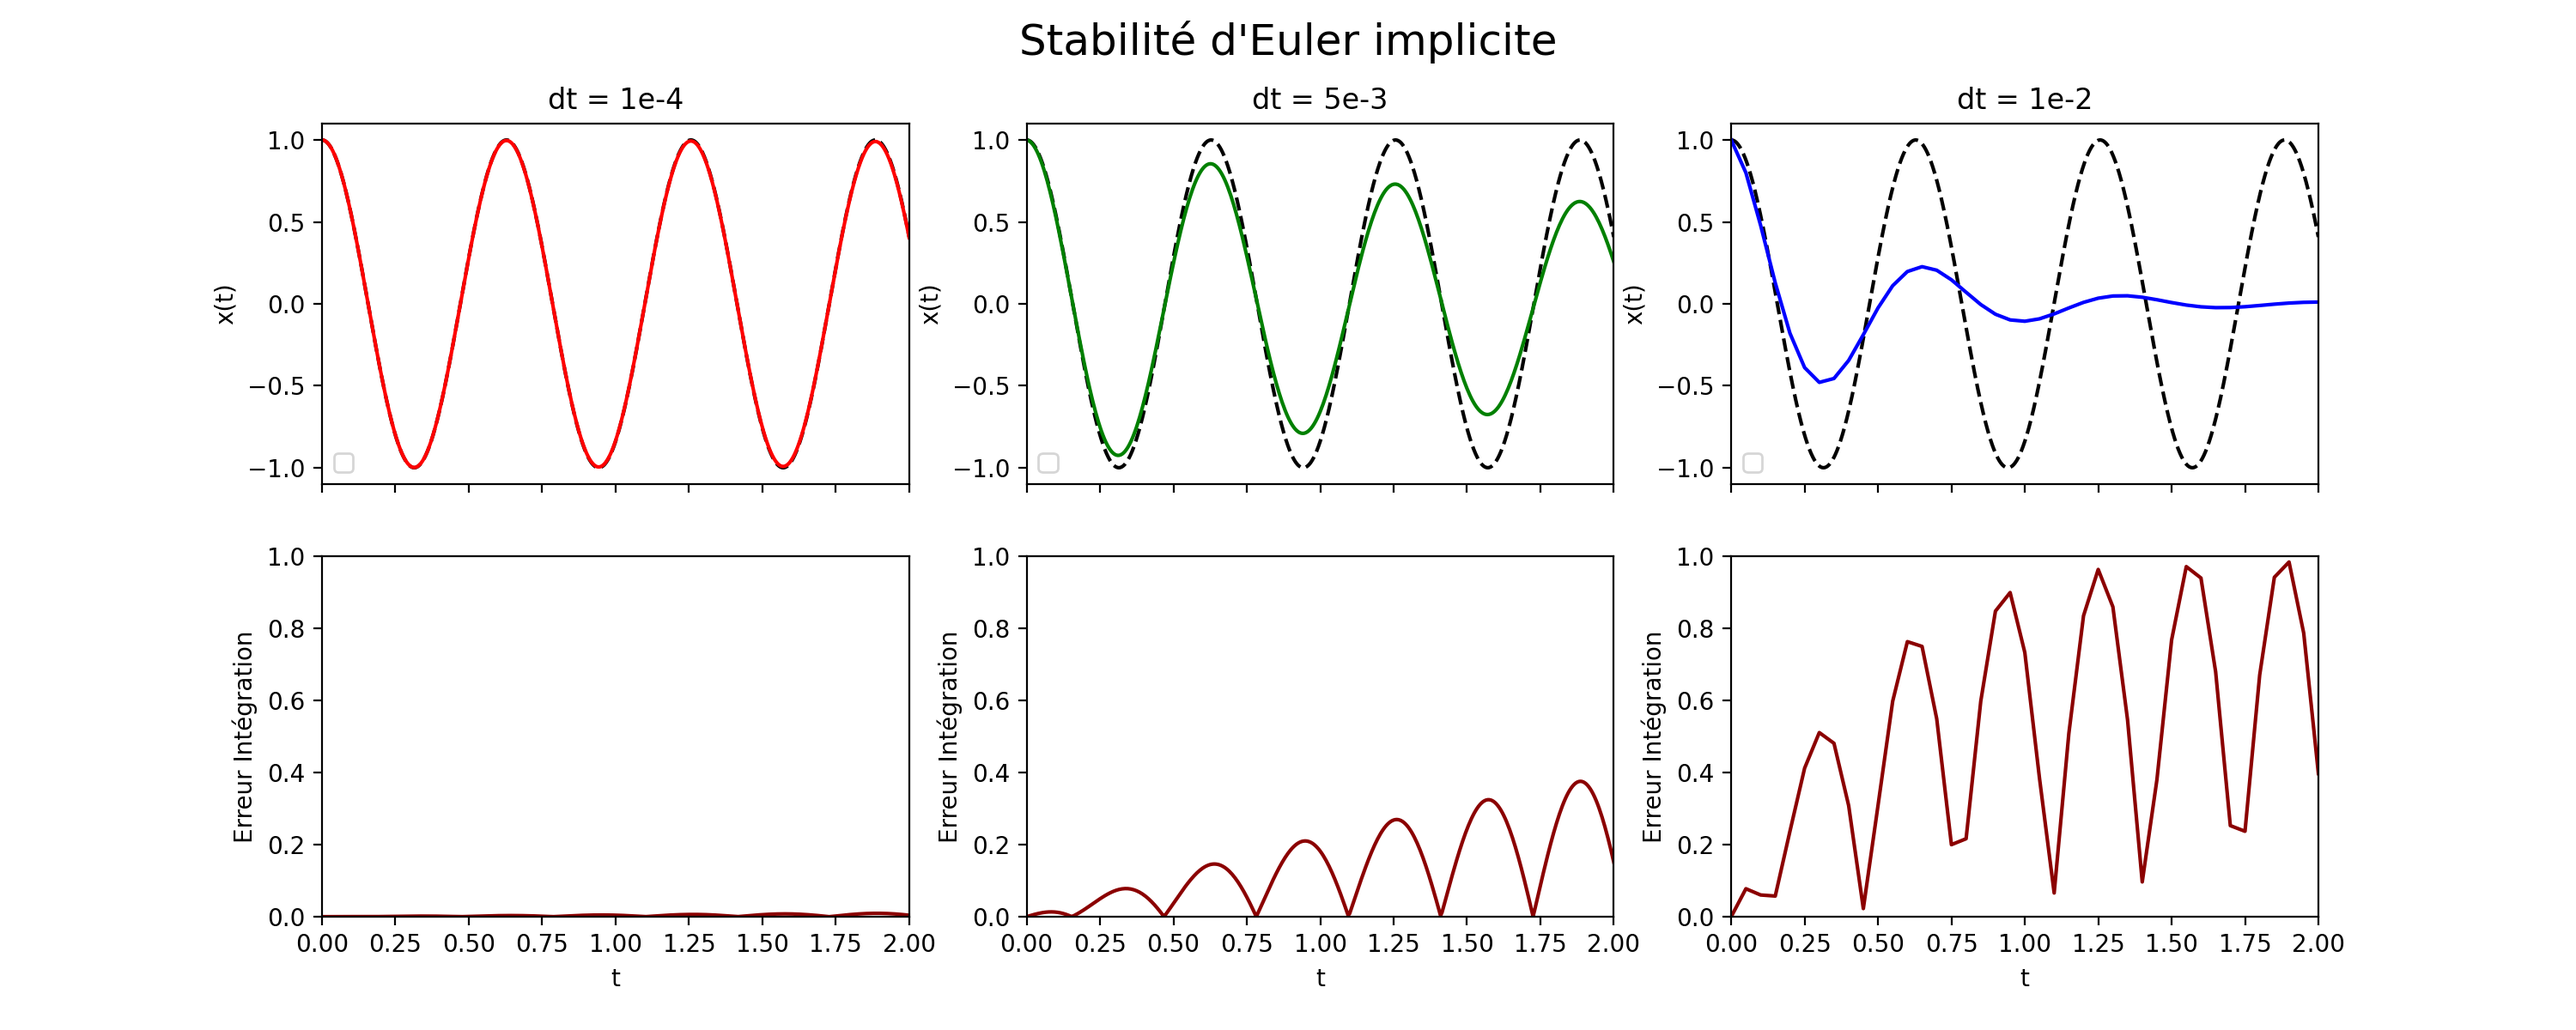
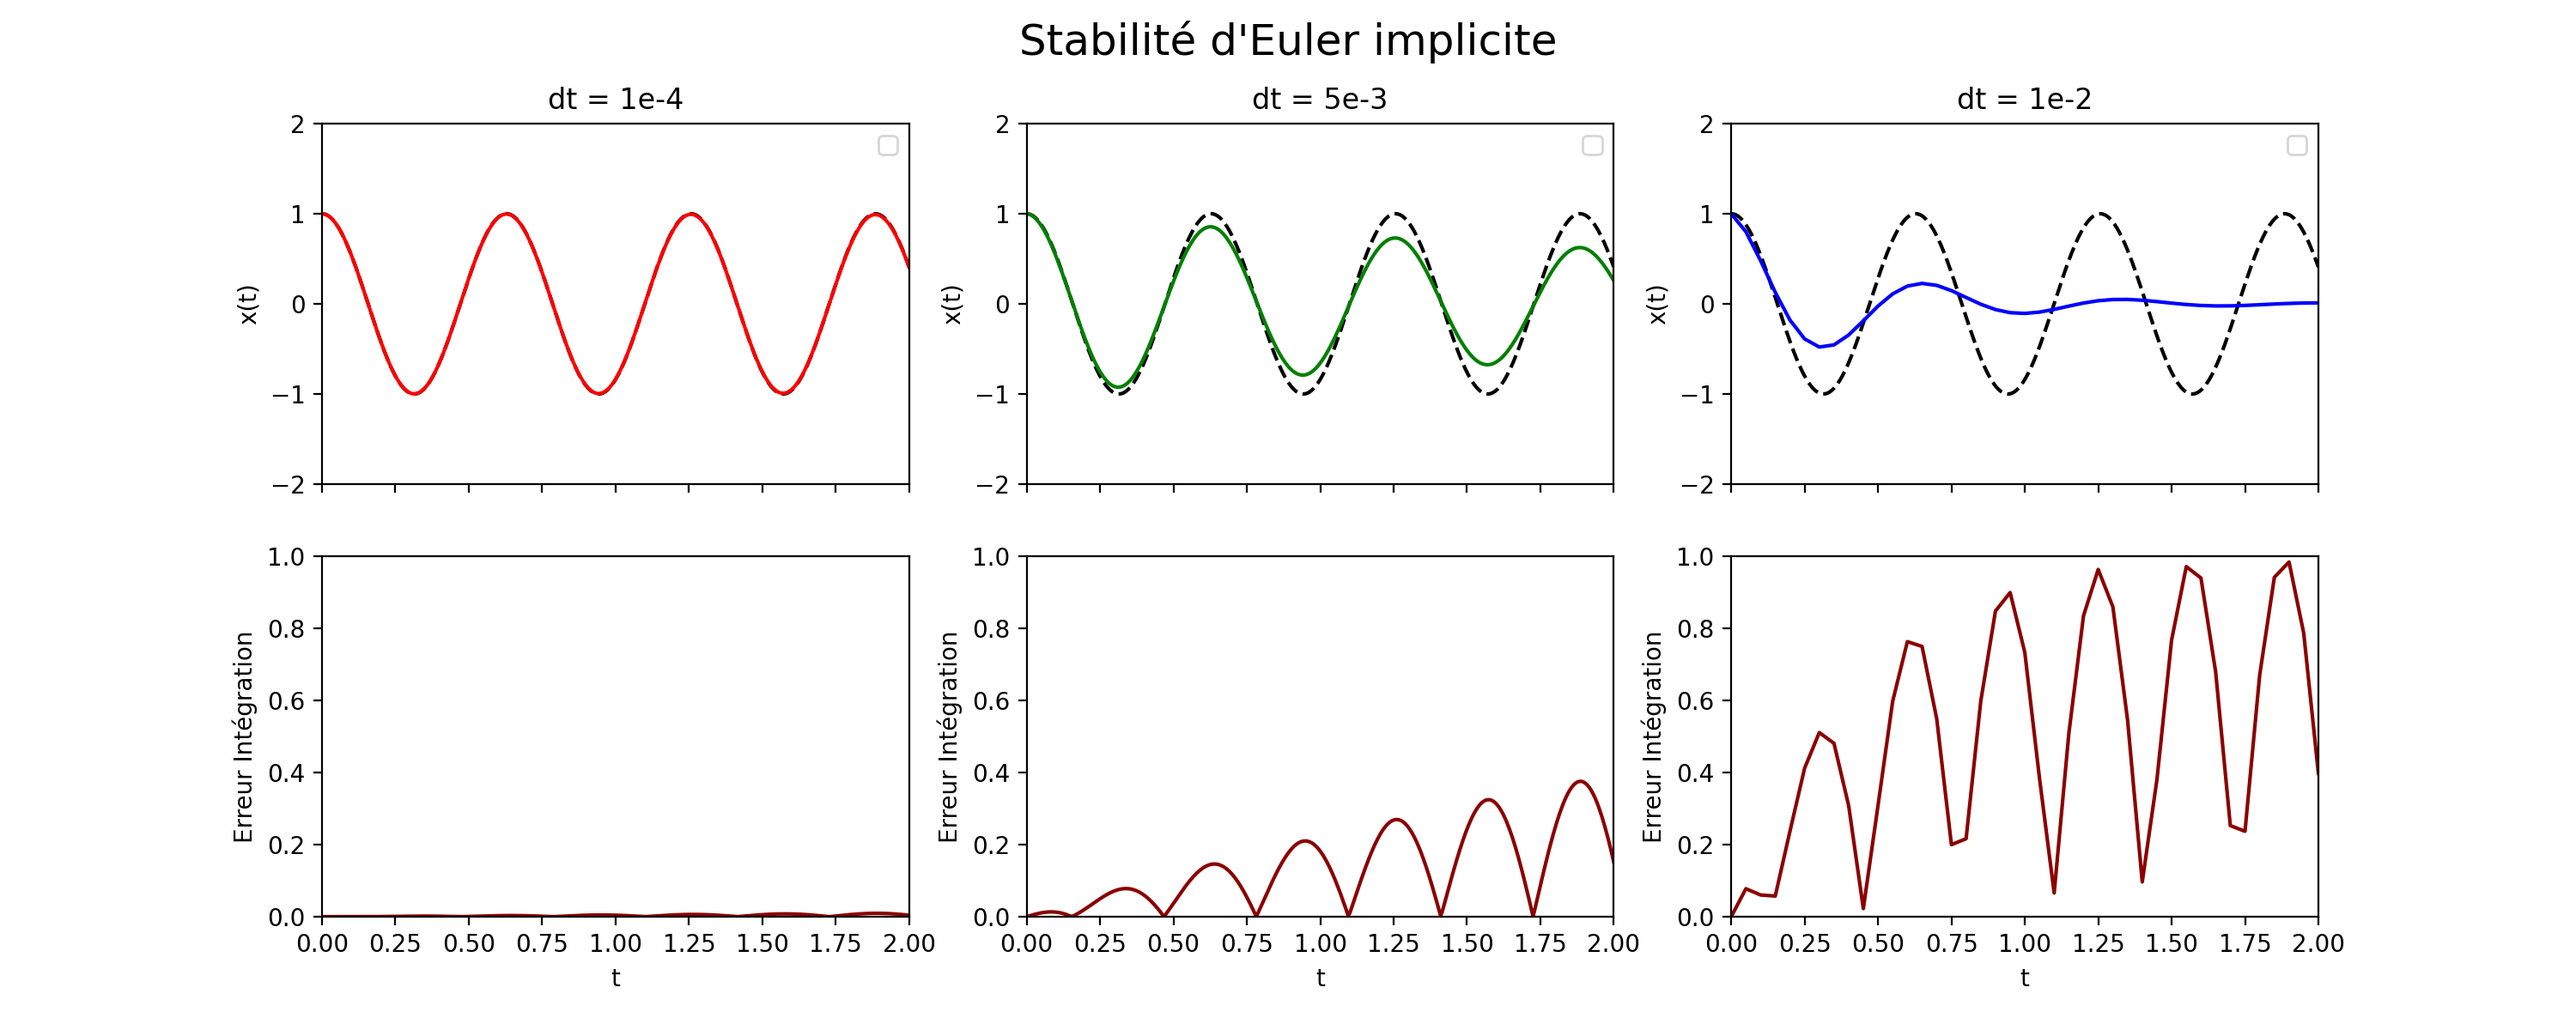
code python pour illu thèse

diff --git a/assets/scripts/thesis/07_Numerical_integration.py b/assets/scripts/thesis/07_Numerical_integration.py
@@ -1,0 +1,83 @@
+import numpy as np
+import matplotlib.pyplot as plt
+
+import numpy as np
+import matplotlib.pyplot as plt
+from scipy.integrate import quad
+from scipy.special import roots_legendre
+
+# Fonction à intégrer
+def f(x):
+    return np.sin(x**2)
+
+# Intervalle d'intégration
+a, b = 0, np.sqrt(np.pi)
+
+# Intégrale analytique
+I_exact, _ = quad(f, a, b)
+
+# Préparer figure
+fig, axes = plt.subplots(1, 3, figsize=(12, 4))
+axes = axes.flatten()
+
+# Paramètres
+N = 10  # nombre de points pour méthodes discrètes
+x_dense = np.linspace(a, b, 1000)
+y_dense = f(x_dense)
+
+# 1. Trapèze
+x_trap = np.linspace(a, b, N)
+y_trap = f(x_trap)
+I_trap = np.trapz(y_trap, x_trap)
+
+axes[0].plot(x_dense, y_dense, 'k', label='f(x)')
+axes[0].fill_between(x_trap, y_trap, alpha=0.3)
+axes[0].plot(x_trap, y_trap, 'o-', color='blue')
+axes[0].set_title("Trapèzes")
+axes[0].text(0.5, -0.4,
+             f"$\int f(x) dx$ ≈ {I_trap:.5f} | Erreur = {abs(I_trap - I_exact):.2e}",
+             ha='center', transform=axes[0].transAxes)
+
+# 2. Monte Carlo
+np.random.seed(1)
+x_rand = np.random.uniform(a, b, N)
+y_rand = f(x_rand)
+I_montecarlo = (b - a) * np.mean(y_rand)
+
+axes[1].plot(x_dense, y_dense, 'k', label='f(x)')
+axes[1].scatter(x_rand, y_rand, alpha=1, color='green', label='Samples')
+axes[1].vlines(x_rand, 0, f(x_rand), color='green', linestyle='--')
+axes[1].set_title("Monte Carlo")
+axes[1].text(0.5, -0.4,
+             f"$\int f(x) dx$ ≈ {I_montecarlo:.5f} | Erreur = {abs(I_montecarlo - I_exact):.2e}",
+             ha='center', transform=axes[1].transAxes)
+
+# 3. Quadrature de Gauss (Gauss-Legendre)
+# On mappe de [-1, 1] vers [a, b]
+nodes, weights = roots_legendre(N)
+# Transformation des points
+x_gauss = 0.5 * (nodes + 1) * (b - a) + a
+w_gauss = 0.5 * (b - a) * weights
+I_gauss = np.sum(w_gauss * f(x_gauss))
+
+axes[2].plot(x_dense, y_dense, 'k', label='f(x)')
+axes[2].vlines(x_gauss, 0, f(x_gauss), color='red', linestyle='--')
+axes[2].plot(x_gauss, f(x_gauss), 'o', color='red', label='Points de Gauss')
+axes[2].set_title("Quadrature de Gauss")
+axes[2].text(0.5, -0.4,
+             f"$\int f(x) dx$ ≈ {I_gauss:.5f} | Erreur = {abs(I_gauss - I_exact):.2e}",
+             ha='center', transform=axes[2].transAxes)
+
+
+# Mise en forme
+for ax in axes:
+    ax.set_xlim(a, b)
+    ax.set_ylim(0, 1.1)
+    ax.grid(False)
+    ax.set_xlabel("x")
+    ax.set_ylabel("f(x)")
+
+plt.suptitle("Méthodes d'intégration numérique", fontsize=16)
+plt.tight_layout(rect=[0, 0.03, 1, 0.95])
+plt.savefig("07_numerical_integration.png")
+plt.show()

diff --git a/octopus/include/Scene/BaseScene.h b/octopus/include/Scene/BaseScene.h
@@ -83,18 +83,18 @@ struct BaseScene final : Scene
         SimulationArgs args{};
         args.density = 1000;
         args.distribution = FemShape;
-        args.young = 1e6;
-        args.poisson = 0.25;
+        args.young = 1e7;
+        args.poisson = 0.4;
         args.damping = 5e-6;
         args.iteration = 5;
         args.sub_iteration = 5;
         args.scenario_1 = 0;
-        args.scenario_2 = 0;
+        args.scenario_2 = -1;
         args.dir = Unit3D::up();
         args.material = Stable_NeoHooke;
-        args.display = FEM_DataDisplay::Type::Volume;
-        //args.mesh_file = "mesh/vtk/model_1_P1.vtk";
-        //args.mesh_type = "vtk";
+        args.display = FEM_DataDisplay::Type::Displacement;
+        args.mesh_file = "mesh/vtk/model_1_P1.vtk";
+        args.mesh_type = "vtk";
         //args.mesh_file = "mesh/msh/bar_tetra_1300.msh";
         //args.mesh_type = "msh";
 
@@ -113,20 +113,12 @@ struct BaseScene final : Scene
         args.sub_iteration = 50;
         cells = Vector3I(24, 24, 24);
         //args.mesh_file = "mesh/vtk/beam-s-4-1-1-n-16-4-4-tetra.vtk";
-        args.damping = 1e-6;
+        args.damping = 1e-5;
         args.refine = 0;
-        args.poisson = 0.25;
+        args.material = NeoHooke;
         build_vbd_entity(Vector3(0,0.,0), cells, size, Color(0.2,.8,0.8,0.), Hexa, args, 0, true);
-        args.poisson = 0.30;
-        build_vbd_entity(Vector3(0,0.,1.2), cells, size, Color(0.2,.8,0.8,0.), Hexa, args, 0, true);
-        args.poisson = 0.35;
-        build_vbd_entity(Vector3(0,0.,2.4), cells, size, Color(0.2,.8,0.8,0.), Hexa, args, 0, true);
-        args.poisson = 0.40;
-        build_vbd_entity(Vector3(0,0.,3.6), cells, size, Color(0.2,.8,0.8,0.), Hexa, args, 0, true);
-        args.poisson = 0.45;
-        build_vbd_entity(Vector3(0,0.,4.8), cells, size, Color(0.2,.8,0.8,0.), Hexa, args, 0, true);
-        args.poisson = 0.495;
-        build_vbd_entity(Vector3(0,0.,6.0), cells, size, Color(0.2,.8,0.8,0.), Hexa, args, 0, true);
+        args.material = Stable_NeoHooke;
+        build_vbd_entity(Vector3(0,0.,2.5), cells, size, Color(0.2,.8,0.8,0.), Hexa, args, 0, true);
         args.refine = 1;
         args.damping = 5e-6;
         //build_vbd_entity(Vector3(0,0.,0), cells, size, Color(0.8,.8,0.3,0.), Tetra, args, 0, true);

diff --git a/assets/scripts/thesis/06_Lagrange.py b/assets/scripts/thesis/06_Lagrange.py
@@ -1,0 +1,67 @@
+import numpy as np
+import matplotlib.pyplot as plt
+
+def lagrange_basis(x_points, i, x):
+    L = 1
+    for j in range(len(x_points)):
+        if j != i:
+            L *= (x - x_points[j]) / (x_points[i] - x_points[j])
+    return L
+
+orders = ["Linéaire", "Quadratique", "Cubique"]
+def plot_all_lagrange_orders(max_order=3):
+    x_plot = np.linspace(-1.2, 1.2, 400)
+    fig, axes = plt.subplots(1, max_order, figsize=(5 * max_order, 4))
+
+    if max_order == 1:
+        axes = [axes]
+
+    for idx, order in enumerate(range(1, max_order + 1)):
+        ax = axes[idx]
+        x_points = np.linspace(-1, 1, order + 1)
+
+        sum_plot = np.zeros_like(x_plot)
+
+        color_list = ['#1f77b4', '#ff7f0e', '#2ca02c', '#9b59b6']  # stocker les couleurs de chaque courbe
+        label_list = []  # stocker les labels
+
+        for i in range(order + 1):
+            y_plot = lagrange_basis(x_points, i, x_plot)
+            ax.plot(x_plot, y_plot, label=f'$N_{i}$', color = color_list[i])
+            sum_plot += y_plot
+            label_list.append(f'$N_{i}(x)$')
+
+        print(color_list)
+        # Tracer la somme des fonctions de base
+        ax.plot(x_plot, sum_plot, '--', color='red', linewidth=1)
+        ax.axis([-1, 1, -0.5,1.5])
+        ax.set_title(f'{orders[idx]}')
+        ax.set_xlabel('x')
+        ax.set_ylabel('$N_i$')
+        ax.axhline(0, color='gray', linewidth=1)
+        ax.grid(False)
+        for i, (label, color) in enumerate(zip(label_list, color_list)):
+            ax.text(
+                x=0.5 - 0.15 * order * 0.5 + i * 0.15, y=0.85 ,
+                s=label,
+                color=color,
+                fontsize=11,
+                ha='center',
+                transform=ax.transAxes
+            )
+            
+        ax.text(
+                x=0.075, y=0.8 ,
+                s=r'$\sum_i N_i(x)$',
+                color="red",
+                fontsize=8,
+                ha='center',
+                transform=ax.transAxes
+            )
+    plt.suptitle('Polynômes de Lagrange (Ordres 1 à 3)', fontsize=16)
+    plt.tight_layout(rect=[0, 0.0, 1, 0.9])
+    plt.savefig('06_lagrange.png', dpi=200)
+    plt.show()
+
+# Exécution
+plot_all_lagrange_orders()

diff --git a/assets/scripts/thesis/08_Gaussian_Quadrature.py b/assets/scripts/thesis/08_Gaussian_Quadrature.py
@@ -1,0 +1,50 @@
+import numpy as np
+import matplotlib.pyplot as plt
+from numpy.polynomial.polynomial import Polynomial
+from scipy.integrate import quad
+
+# Points et poids de Gauss à 2 points sur [-1, 1]
+gauss_points = [-1/np.sqrt(3), 1/np.sqrt(3)]
+gauss_weights = [1, 1]
+
+# Génère les polynômes de degré 1 à 4
+degrees = [1, 2, 3, 4]
+
+x = np.linspace(-1, 1, 400)
+
+fig, axs = plt.subplots(1, 4, figsize=(20, 5))
+axs = axs.ravel()
+
+labels = ["$f(x) = 2x + 1$", "$f(x) = 3x^2 + 2x + 1$", "$f(x) = 4x^3 + 3x^2 + 2x + 1$", "$f(x) = 5x^4 + 4x^3 + 3x^2 + 2x + 1$"]
+
+for i, deg in enumerate(degrees):
+    # Crée un polynôme aléatoire de degré `deg` avec des coefficients simples
+    coeffs = np.arange(1, deg + 2)  # Par exemple : [1, 2] pour deg=1
+    p = Polynomial(coeffs)
+    y = p(x)
+
+    # Valeur exacte de l'intégrale
+    exact_integral, _ = quad(p, -1, 1)
+
+    # Valeur approchée par quadrature de Gauss
+    approx_integral = sum(w * p(xi) for w, xi in zip(gauss_weights, gauss_points))
+    samples = [p(xi) for xi in gauss_points]
+    # Tracé
+    axs[i].plot(x, y, label= labels[i])
+    axs[i].fill_between(x, y, alpha=0.1, color='grey')
+    axs[i].vlines(gauss_points, 0, samples, color='red', linestyle='--')
+    axs[i].scatter(gauss_points, samples, alpha=1, color='red', label='Quadratures')
+    axs[i].set_xlim([-1, 1])
+    
+    
+    axs[i].set_title(f"$\int f(x) dx$ ≈ {approx_integral:.4f} | Erreur = {abs(approx_integral - exact_integral):.4f}")
+    axs[i].axhline(0, color='black', linewidth=0.5)
+    axs[i].axvline(0, color='black', linewidth=0.5)
+    axs[i].legend()
+    axs[i].grid(False)
+
+plt.suptitle("Intégration de Gauss à 2 points", fontsize=16)
+plt.tight_layout(rect=[0, 0.03, 1, 0.95])
+plt.savefig("08_gaussian_quadrature.png")
+plt.show()
+

diff --git a/octopus/include/GPU/GPU_FEM_Material.h b/octopus/include/GPU/GPU_FEM_Material.h
@@ -8,14 +8,17 @@ __device__ __forceinline__ Matrix3x3 get_strain_linear(const Matrix3x3 &F);
 
 __device__ __forceinline__ Matrix3x3 hooke_stress(const Matrix3x3 &F, scalar lambda, scalar mu);
 __device__ __forceinline__ Matrix3x3 stvk_stress(const Matrix3x3 &F, scalar lambda, scalar mu);
+__device__ __forceinline__ Matrix3x3 nh_stress(const Matrix3x3 &F, scalar lambda, scalar mu);
 __device__ __forceinline__ Matrix3x3 snh_stress(const Matrix3x3 &F, scalar lambda, scalar mu);
 
 __device__ void hooke_hessian(const Matrix3x3 &F, scalar lambda, scalar mu, Matrix3x3 d2W_dF2[9]);
 __device__ void stvk_hessian(const Matrix3x3 &F, scalar lambda, scalar mu, Matrix3x3 d2W_dF2[9]);
+__device__ void nh_hessian(const Matrix3x3 &F, scalar lambda, scalar mu, Matrix3x3 d2W_dF2[9]);
 __device__ void snh_hessian(const Matrix3x3 &F, scalar lambda, scalar mu, Matrix3x3 d2W_dF2[9]);
 
 __device__ void hooke_hessian_sym(const Matrix3x3 &F, scalar lambda, scalar mu, Matrix3x3 d2W_dF2[6]);
 __device__ void stvk_hessian_sym(const Matrix3x3 &F, scalar lambda, scalar mu, Matrix3x3 d2W_dF2[6]);
+__device__ void nh_hessian_sym(const Matrix3x3 &F, scalar lambda, scalar mu, Matrix3x3 d2W_dF2[6]);
 __device__ void snh_hessian_sym(const Matrix3x3 &F, scalar lambda, scalar mu, Matrix3x3 d2W_dF2[6]);
 
 __device__ Matrix3x3 eval_pk1_stress(Material material, scalar lambda, scalar mu, const Matrix3x3 &F);

diff --git a/assets/scripts/thesis/04_implicit_stability.py b/assets/scripts/thesis/04_implicit_stability.py
@@ -52,6 +52,7 @@ for col, (dt, title, color) in enumerate(zip(dt_values, titles, colors)):
     axes[0, col].plot(t_values, x_values, '-', color=color)
     axes[0, col].set_title(title)
     axes[0, col].set_ylabel("x(t)")
+    axes[0, col].axis([0, t_max, -2,2])
     axes[0, col].legend()
     axes[0, col].grid(False)
 
